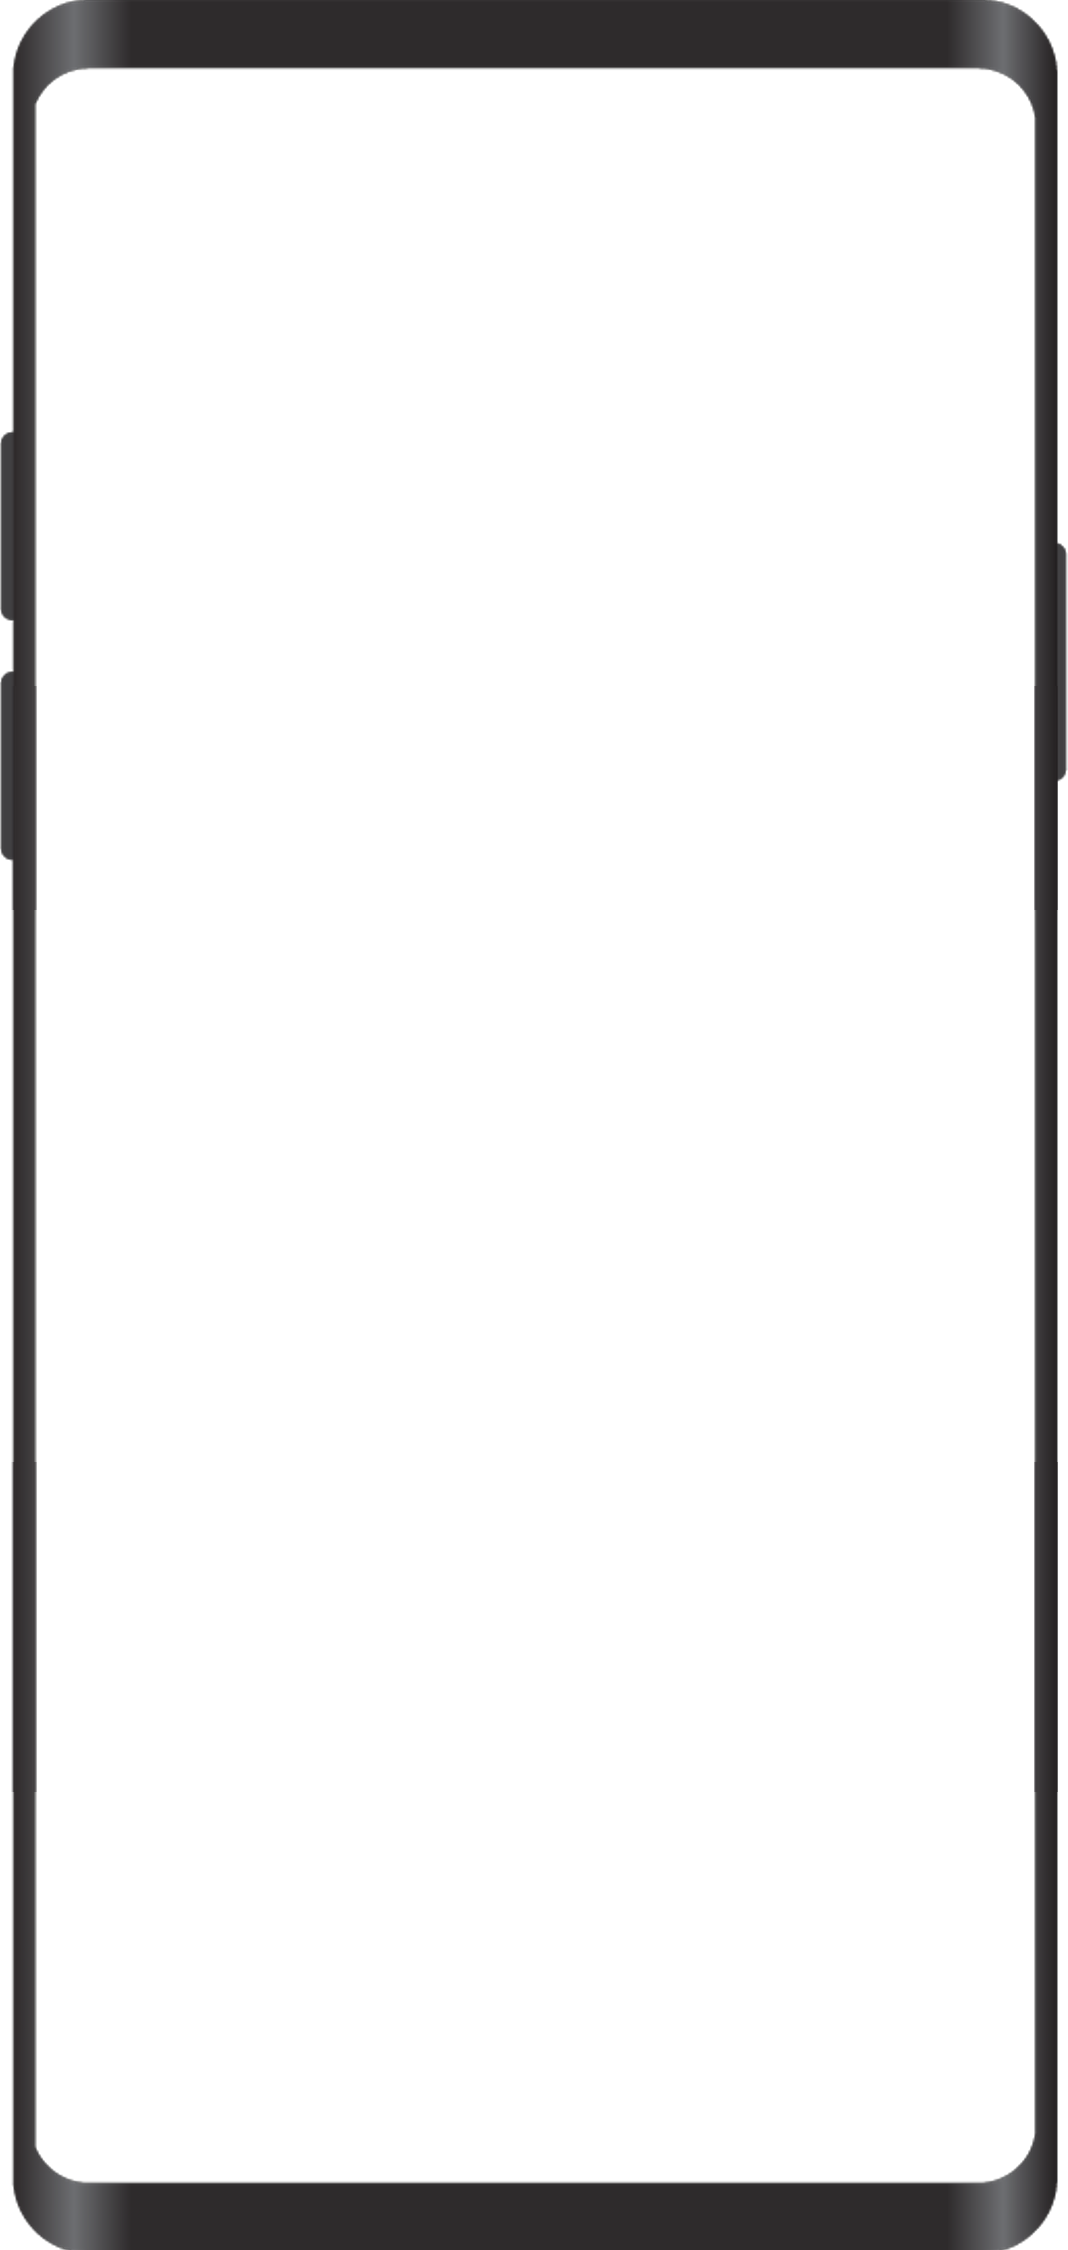
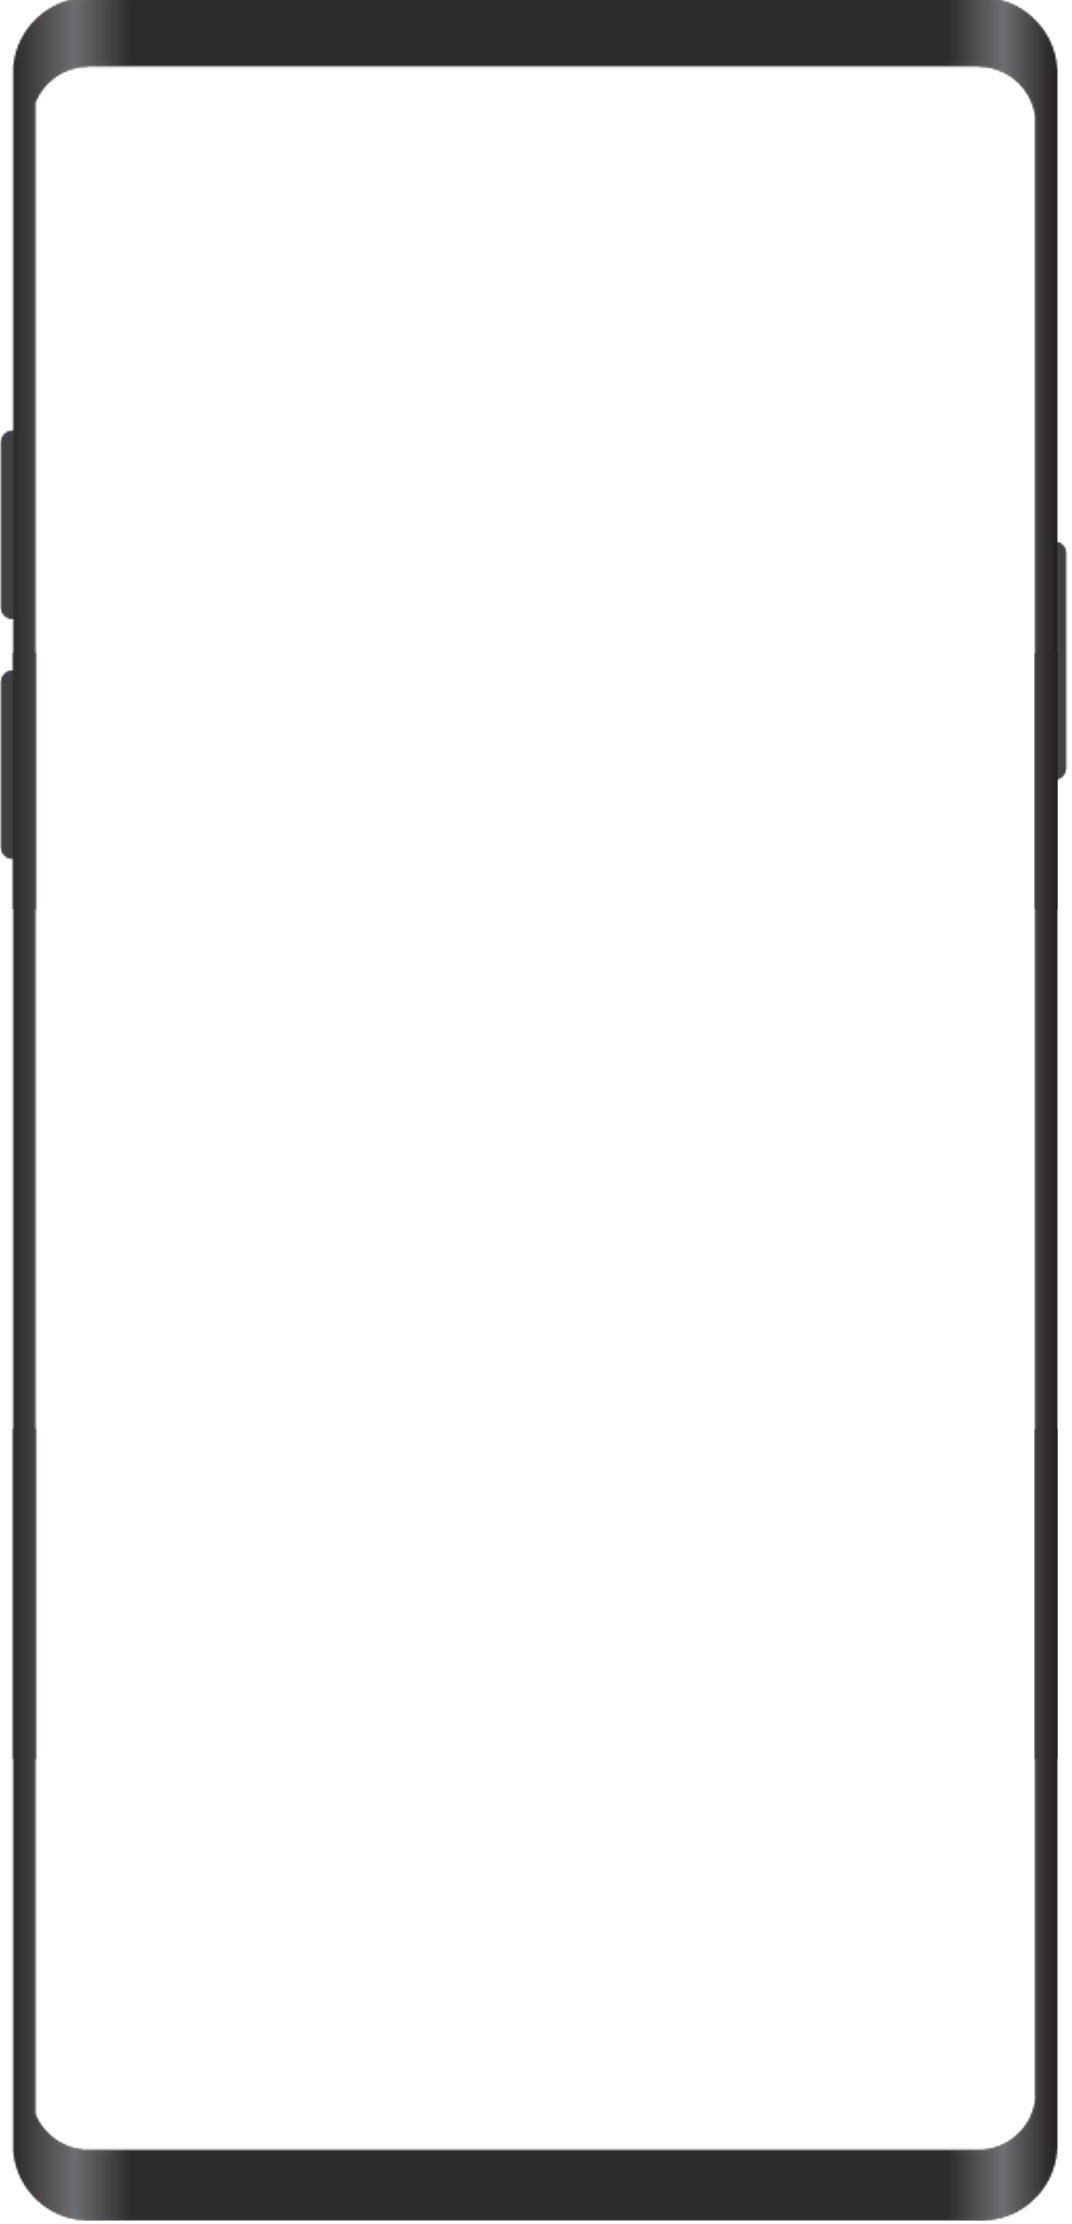
change phone vid size

Changed region(s): [[0.0, 0.0, 1.0, 1.0]]

diff --git a/src/home/demo/demo.css b/src/home/demo/demo.css
@@ -54,11 +54,11 @@
 .vidContainer {
     position: absolute;
     aspect-ratio: 193/402;
-    max-height: 94%;
-    max-width:94%;
+    max-height: 100%;
+    max-width: 100%;
     top: 50%;
     left: 50%;
-    transform: translate(-49.8%, -44.4%);
+    transform: translate(-49.8%, -45%);
 }
 
 @media only screen and (max-width: 700px) {
